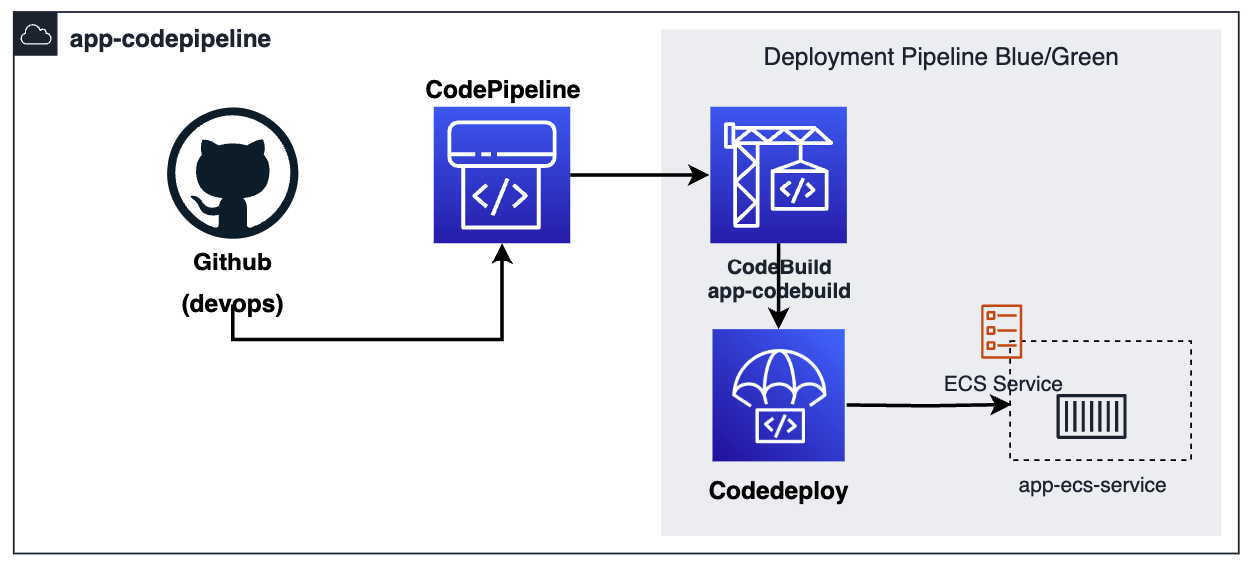
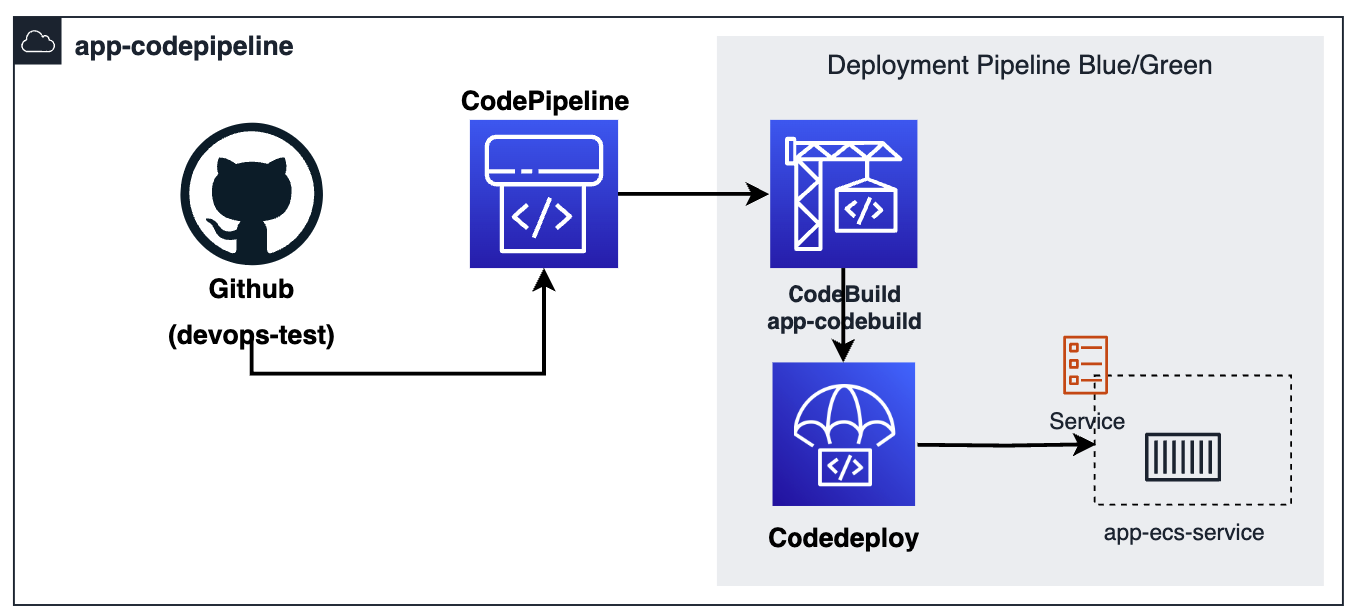
feat(devops): finish move

diff --git a/README.md b/README.md
@@ -1,4 +1,4 @@
-# DevOps Infra
+# DevOps
 
 ## How to do
 
@@ -58,24 +58,31 @@ terraform/
 ├── envs/
 │   ├── dev/
 │   └── prd/
-└── modules/
+└── modules/ # Terraform modules for all AWS services
 dependencies/
 ├── templates/
 ├── scripts/
 └── tests/
-application/
-├── ops/
-└── docker/
 ```
 
 ### Diagram
 
 ![Diagram](./images/diagram.png)
 
+- AWS Route53: Manage DNS Domain.
+- AWS InternetGateway: Allow traffic from Internet in/out VPC.
+- AWS NAT Gateway: All ECSs that into Private Subnet could access to Internet.
+- AWS ALB(Load Balancer) - External: Automatically distributes incoming traffic across multiple targets from Internet.
+- AWS ECS: At private subnet, running application on container in cluster.
+- AWS ECR: Managed container image registry service to push, pull and manage images.
+- AWS VPC: Appropriate firewall rules assigned via security groups and ACL enforce only certain traffic to pass thru to the subnet.
+
 ### CI/CD Pipeline
 
 ![CICD](./images/devops-test.png)
+All files in `devops-test/ops` are used for CI/CD pipeline.
 
+- CodePipeline: collaborating with AWS Codestar to connect to GitHub repository and trigger pipeline when push to repository in branch `main` of `devops-test`.
 - Codebuild:
   - Build image to ECR
   - Run Unit Testing: run pytest with built image by using docker container
@@ -84,3 +91,19 @@ application/
 - CodeDeploy:
   - Get artifact from CodeBuild include image detail and task definition of application
   - Deploy to ECS Fargate(Blue/Green Strategy)
+
+### Results
+
+#### Pipeline
+
+![Codepipeline](./images/codepipeline.png)
+
+#### Blue-green Deployment
+
+![Blue-green Deployment](./images/bluegreen-deployment.png)
+
+#### Application
+
+![Root-route](./images/root-route.png)
+
+![Healthcheck-route](./images/healthcheck-route.png)
